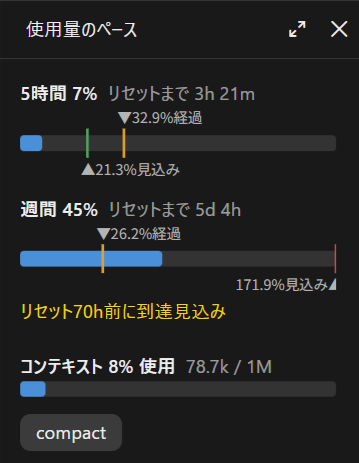
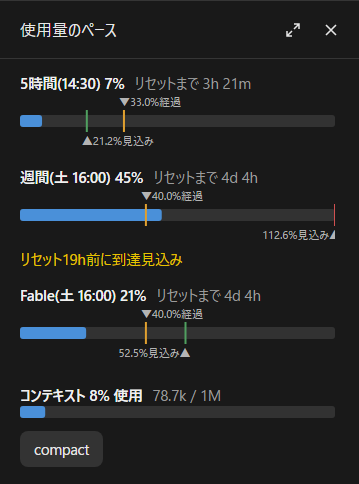
Show the Fable gauge in the README image
The pane image now has the per-model weekly meter. It is drawn from the
mod's own meterSvg and contextSvg output in a page laid out like the
desktop pane (the app does not show up in screen captures), so the
alt text no longer says "desktop app".

(CLD)

diff --git a/README.md b/README.md
@@ -6,7 +6,7 @@ A Claude Code mod that shows your plan's usage limits (5-hour, weekly, and the p
 
 This is a fork of [sand-jp/usage-pace](https://github.com/sand-jp/usage-pace) that adds the per-model weekly gauge (`model`).
 
-![The usage-pace pane in the desktop app (Japanese)](docs/pane.png)
+![The usage-pace pane (Japanese)](docs/pane.png)
 
 An English display is also available.
 
